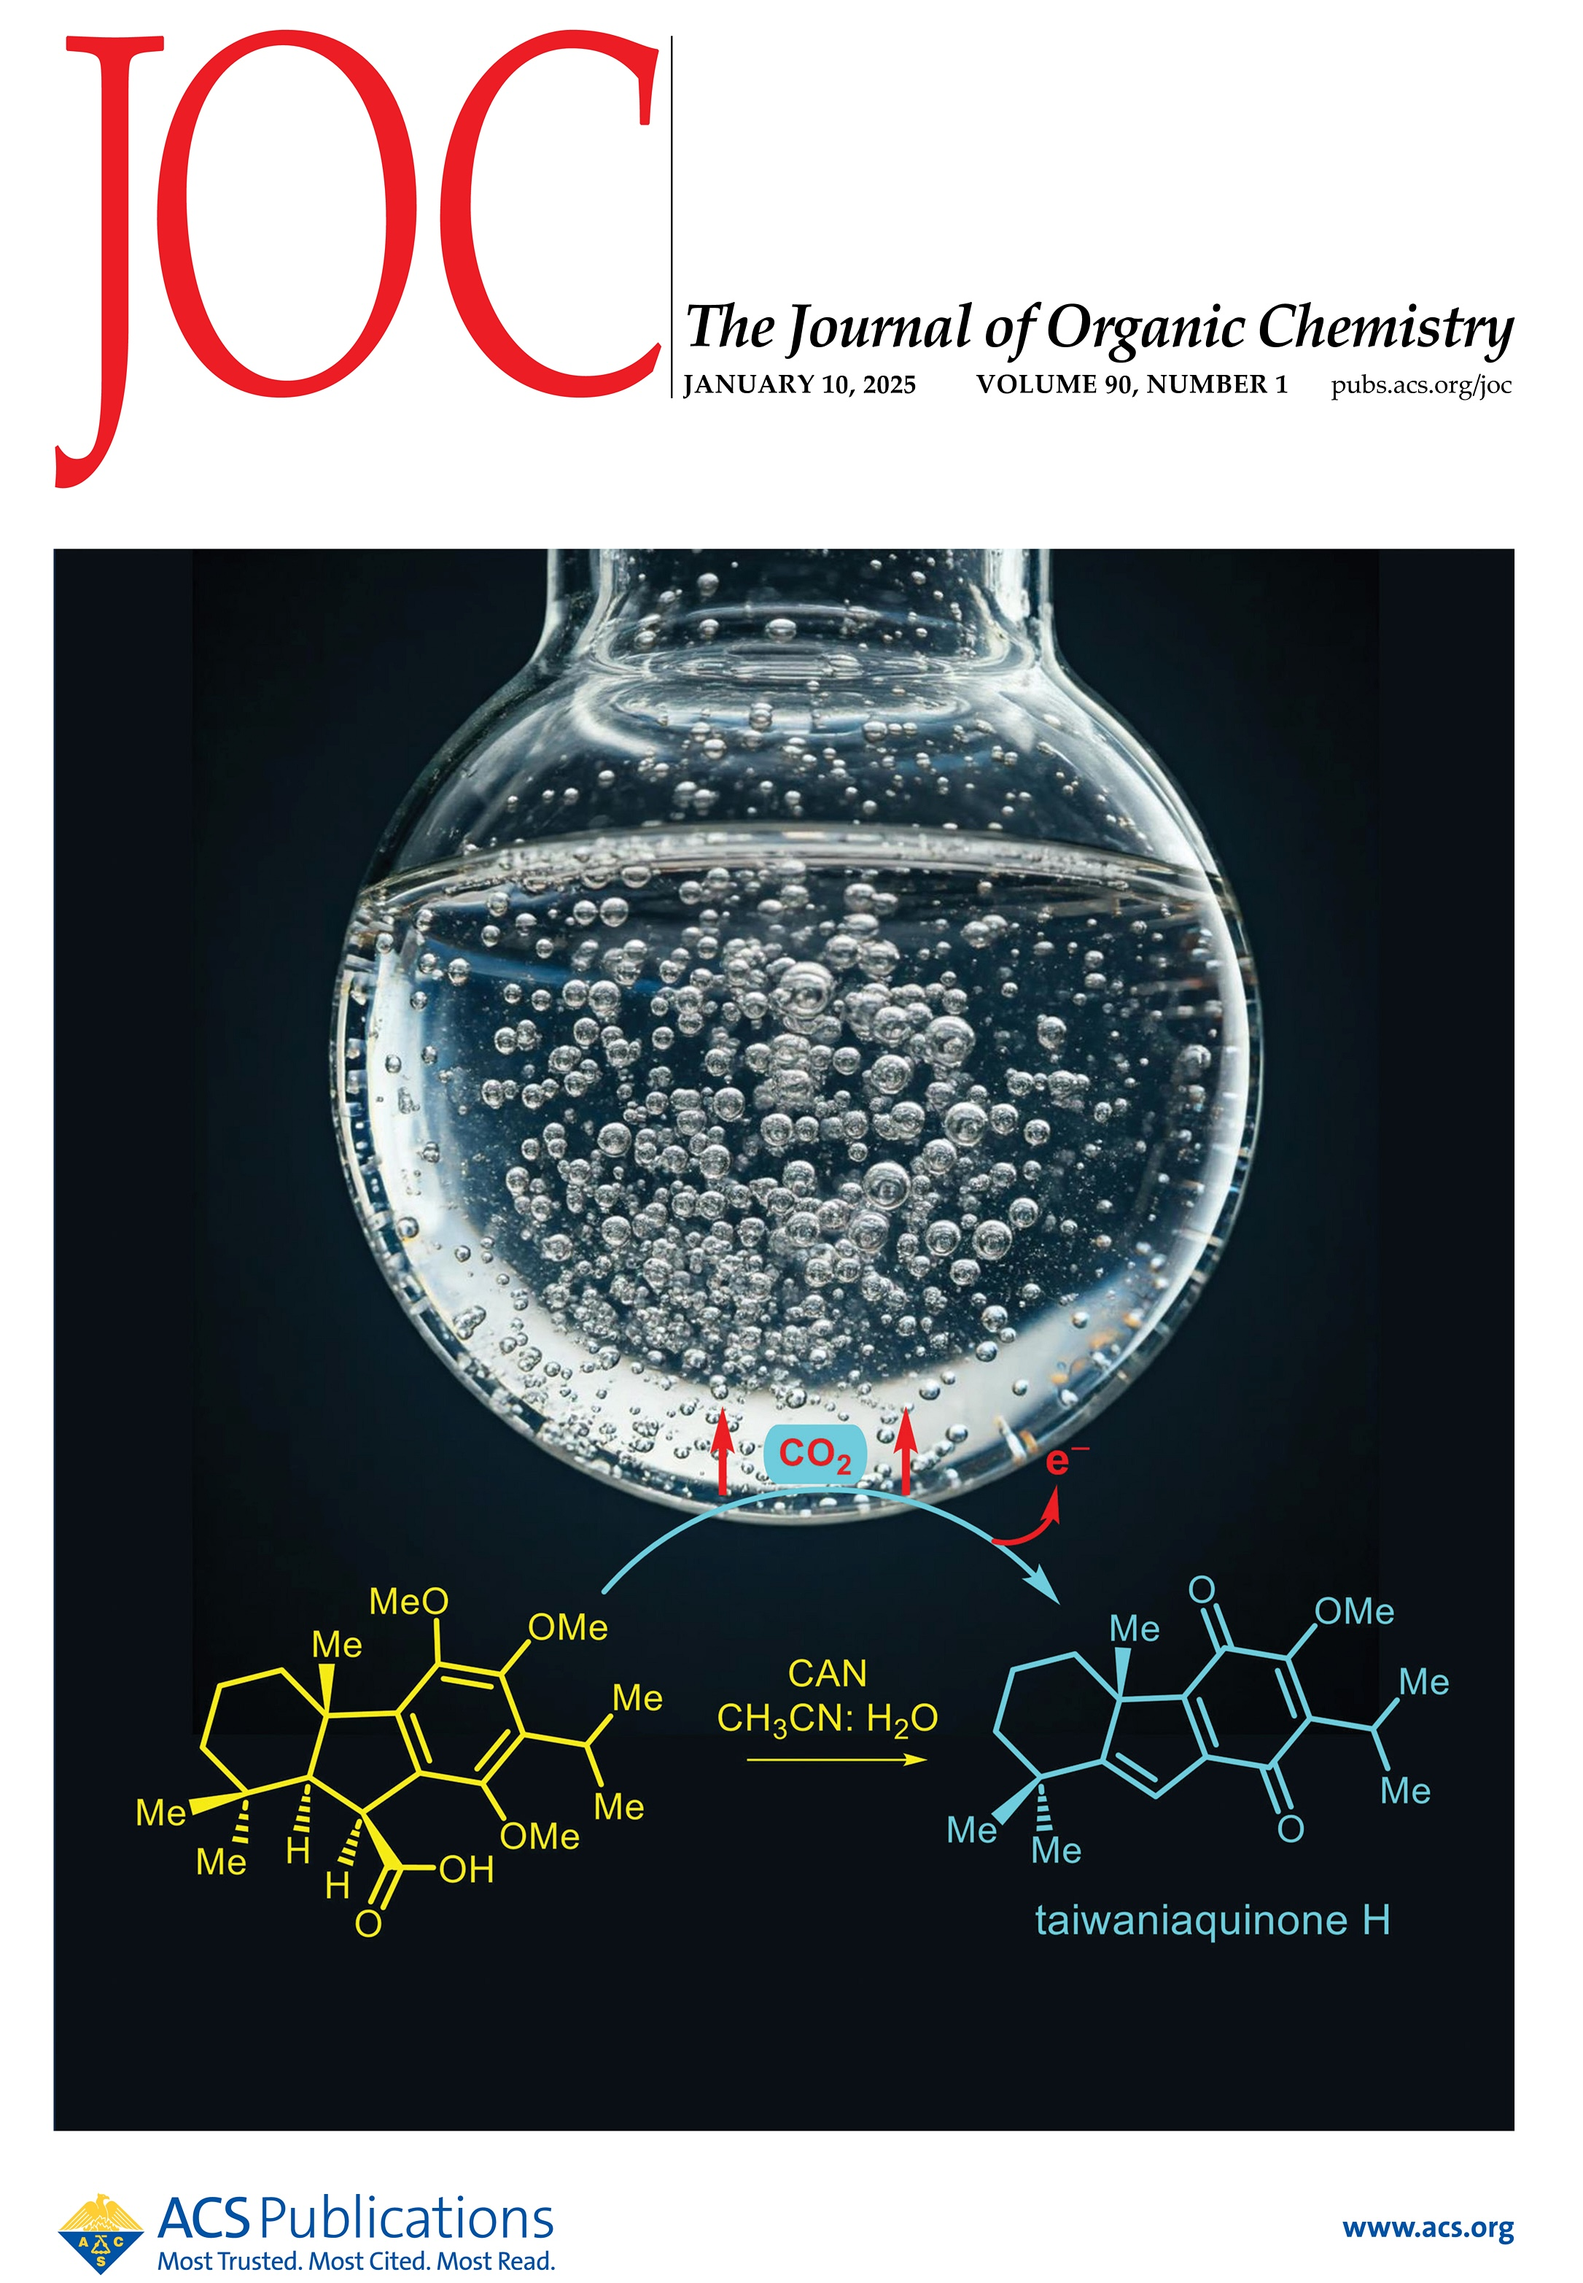
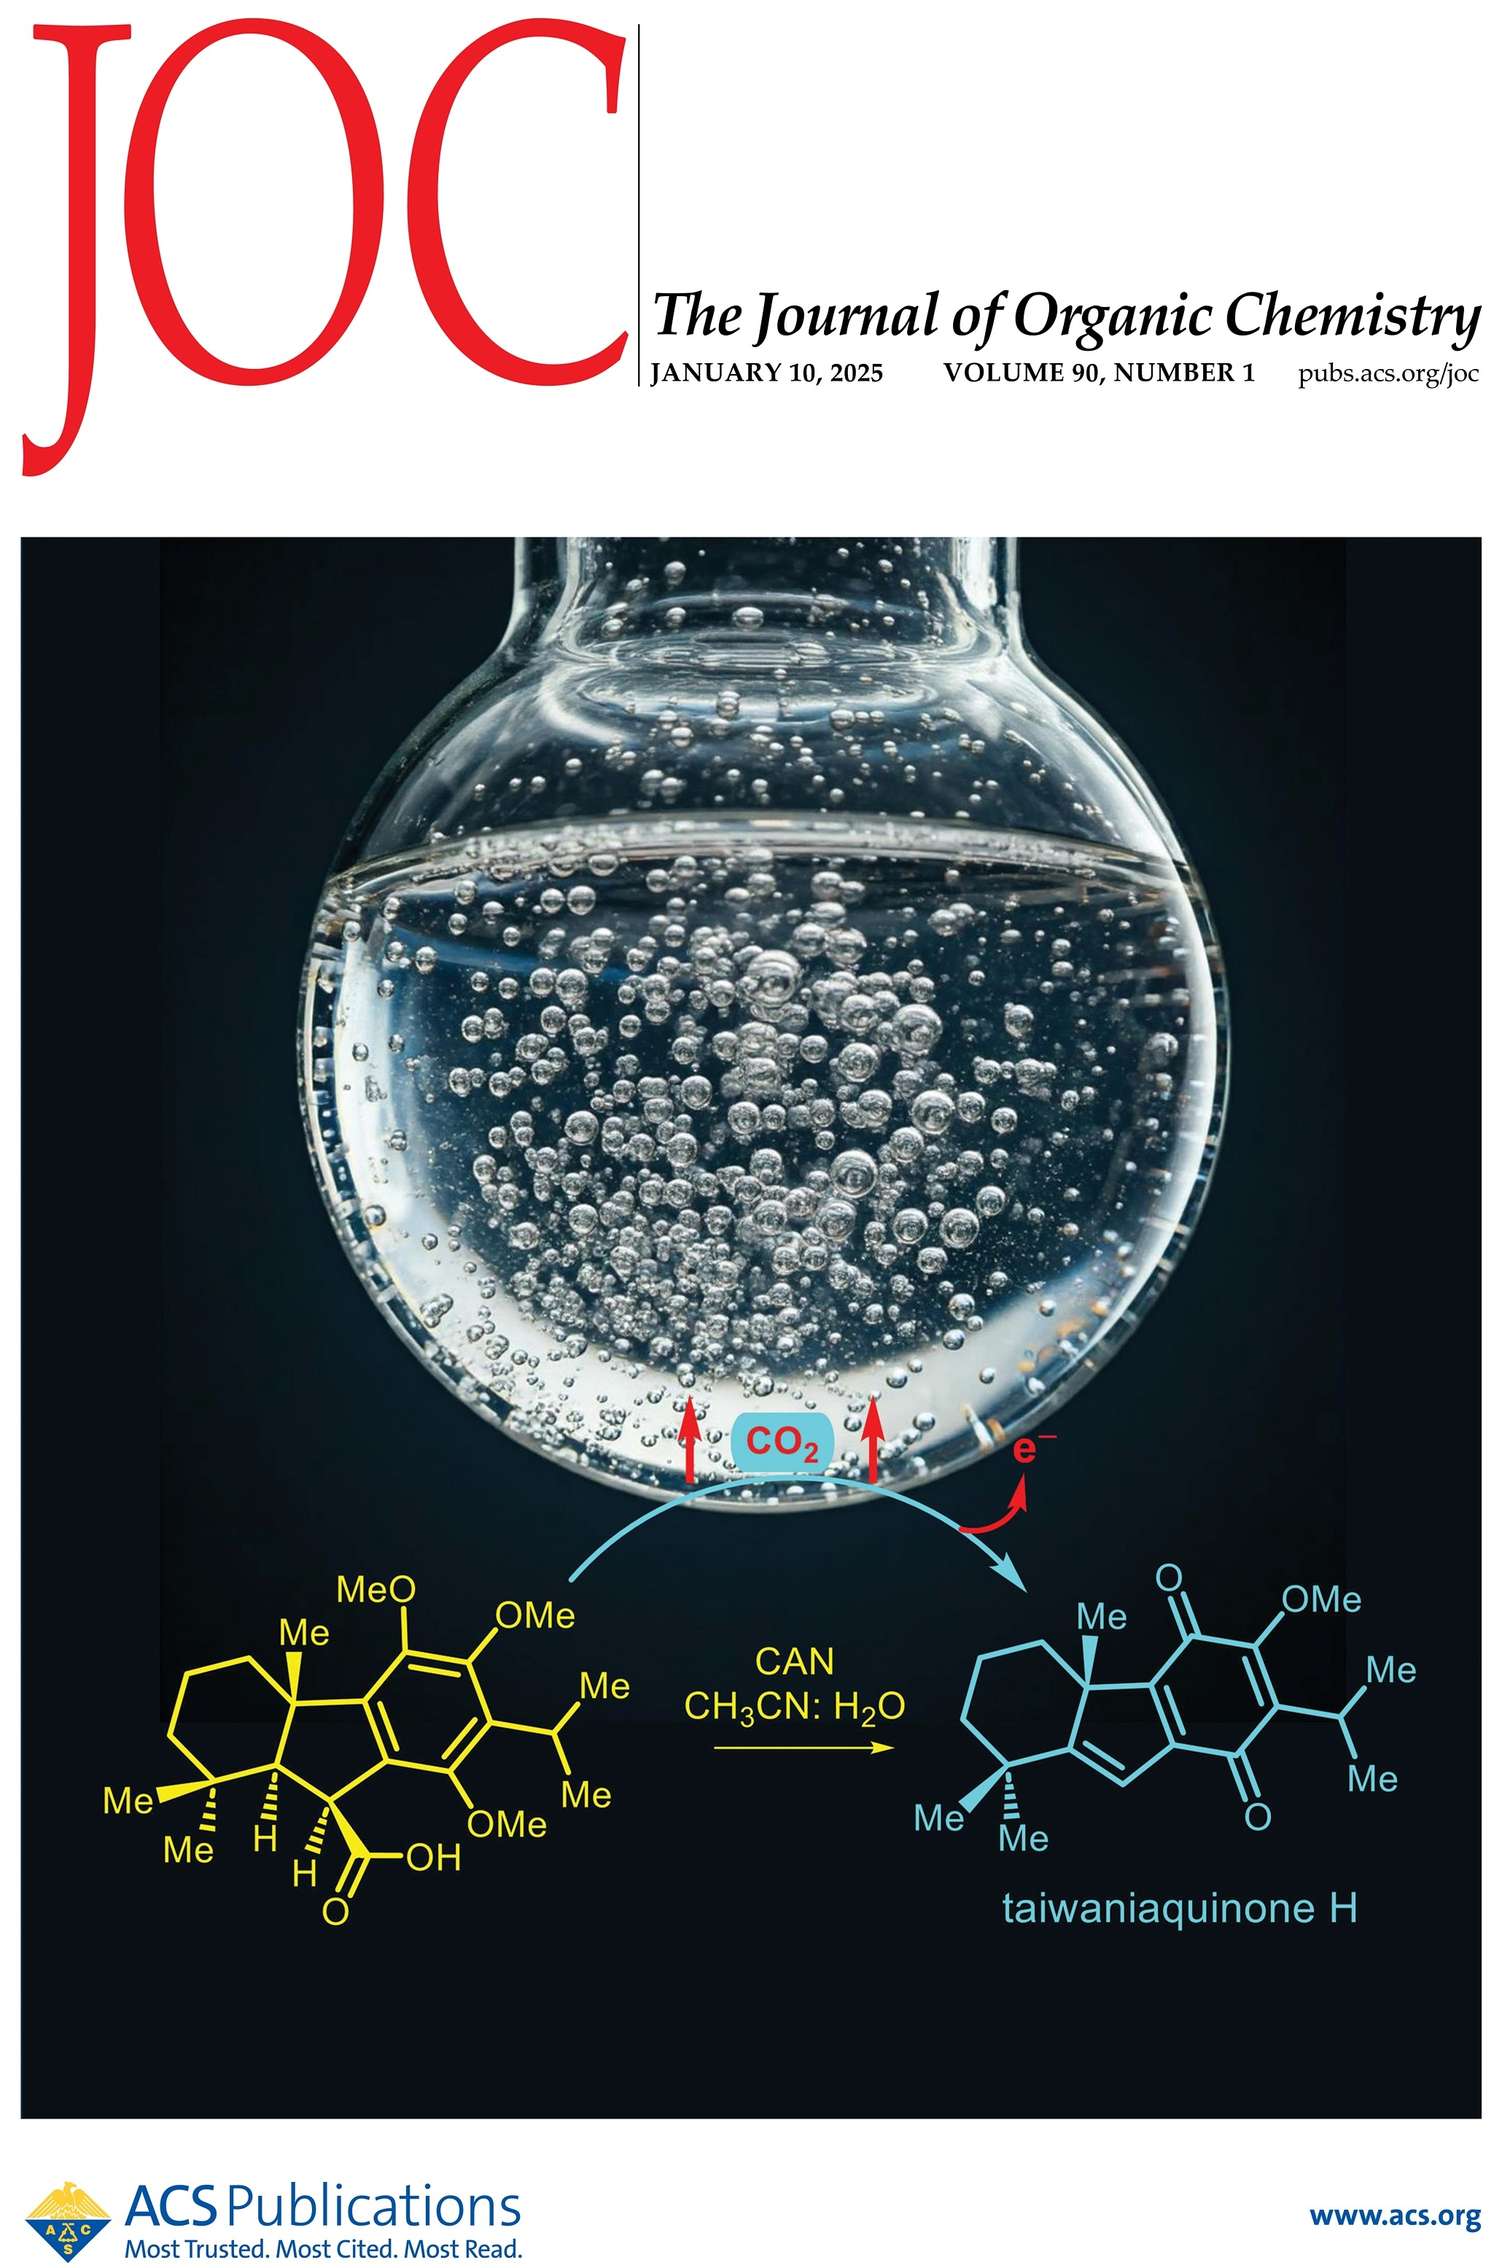
Updated about (#59)
* joc ec

* update ami

* updated joc image

* updated about

* npx prettier

---------

diff --git a/about.html b/about.html
@@ -59,11 +59,18 @@
       <h1 id="About">About Me</h1>
       <br />
       <p>
-        I was born in a small town in
-        <a href="https://en.wikipedia.org/wiki/Putian">Putian City</a>,
-        <a href="https://en.wikipedia.org/wiki/Fujian">Fujian Province</a> in
-        China and came to study in Singapore when I was about 12-13 years old. I
-        then completed my GCE
+        I was born in a small town (<a
+          href="https://baike.baidu.com/item/%E6%A2%A7%E5%A1%98%E9%95%87/8803659"
+          >梧塘镇</a
+        >) in <a href="https://en.wikipedia.org/wiki/Putian">Putian City</a> (<a
+          href="https://baike.baidu.com/item/%E8%8E%86%E7%94%B0%E5%B8%82/607902"
+          >莆田市</a
+        >),
+        <a href="https://en.wikipedia.org/wiki/Fujian">Fujian Province</a> (<a
+          href="https://baike.baidu.com/item/%E7%A6%8F%E5%BB%BA%E7%9C%81/122534"
+          >福建省</a
+        >) in China and came to study in Singapore when I was about 12-13 years
+        old. I then completed my GCE
         <a
           href="https://en.wikipedia.org/wiki/Singapore-Cambridge_GCE_Ordinary_Level"
           >O Level</a

diff --git a/publications.html b/publications.html
@@ -132,7 +132,8 @@
                   Complexes for Olefin Polymerization</a
                 >
                 <br />
-                Tan, J.;<sup>&sect;</sup>&dagger; Liu, J.;<sup>&nabla;</sup>&dagger;
+                Tan, J.;<sup>&sect;</sup>&dagger; Liu,
+                J.;<sup>&nabla;</sup>&dagger;
                 <b>Zhang, X.</b>* <i>J. Org. Chem.</i>, <b>2025</b>, Accepted.
                 <br />
                 [<a target="_blank" href="https://zenodo.org/records/14186325"
@@ -246,7 +247,8 @@
                 Boruah A.;&dagger; Boro B.;&dagger; Wang J.; Paul R.; Ghosh,
                 R.;Mohapatra, D.; Li P.-Z.;*
                 <b> Zhang, X.</b>;*<sup>#</sup> Mondal J.*
-                <i>ACS Appl. Mater. Interfaces</i>, <b>2025</b>,  17, 1, 1259–1272.
+                <i>ACS Appl. Mater. Interfaces</i>, <b>2025</b>, 17, 1,
+                1259–1272.
                 <br />
                 [<a target="_blank" href="https://zenodo.org/records/11408333"
                   >DFT structures (on Zenodo)</a
